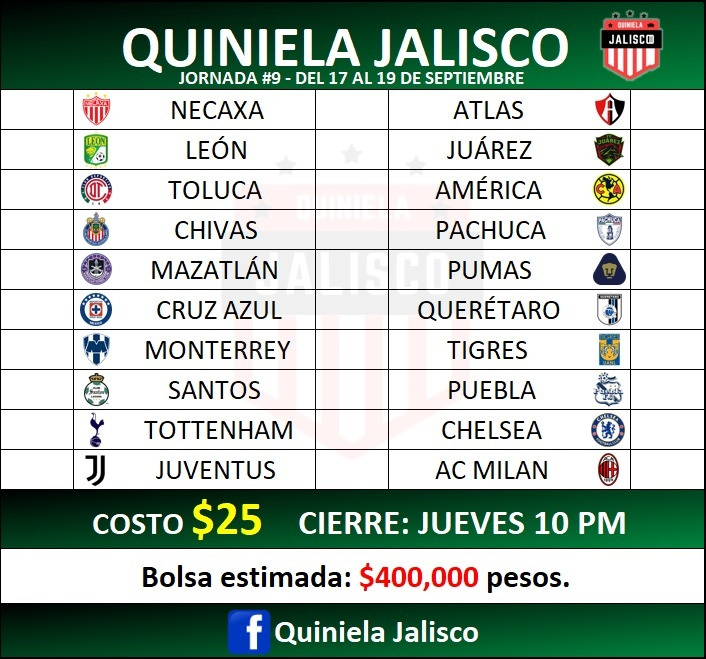
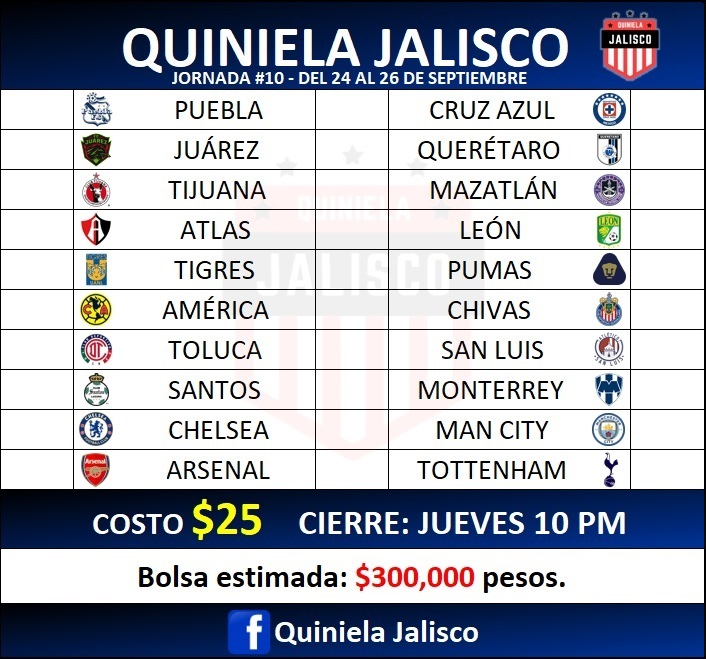
Jornada 10 A21

diff --git a/10/styles10.css b/10/styles10.css
@@ -88,8 +88,8 @@ h1{
     margin-top: 8%;
     border: solid 1px black;
     border-radius: 0 0 14px 14px;
-    background: -webkit-linear-gradient(0.04turn, rgb(0,0,0)  ,rgb(2,129,62) 80%);
-    background: linear-gradient(0.04turn, rgb(0,0,0)  ,rgb(2,129,62) 80%);
+    background: -webkit-linear-gradient(0.04turn, rgb(0,0,0)  ,rgb(1,50,143) 80%);
+    background: linear-gradient(0.04turn, rgb(0,0,0)  ,rgb(1,50,143) 80%);
     font-size: x-large;
 }
 
